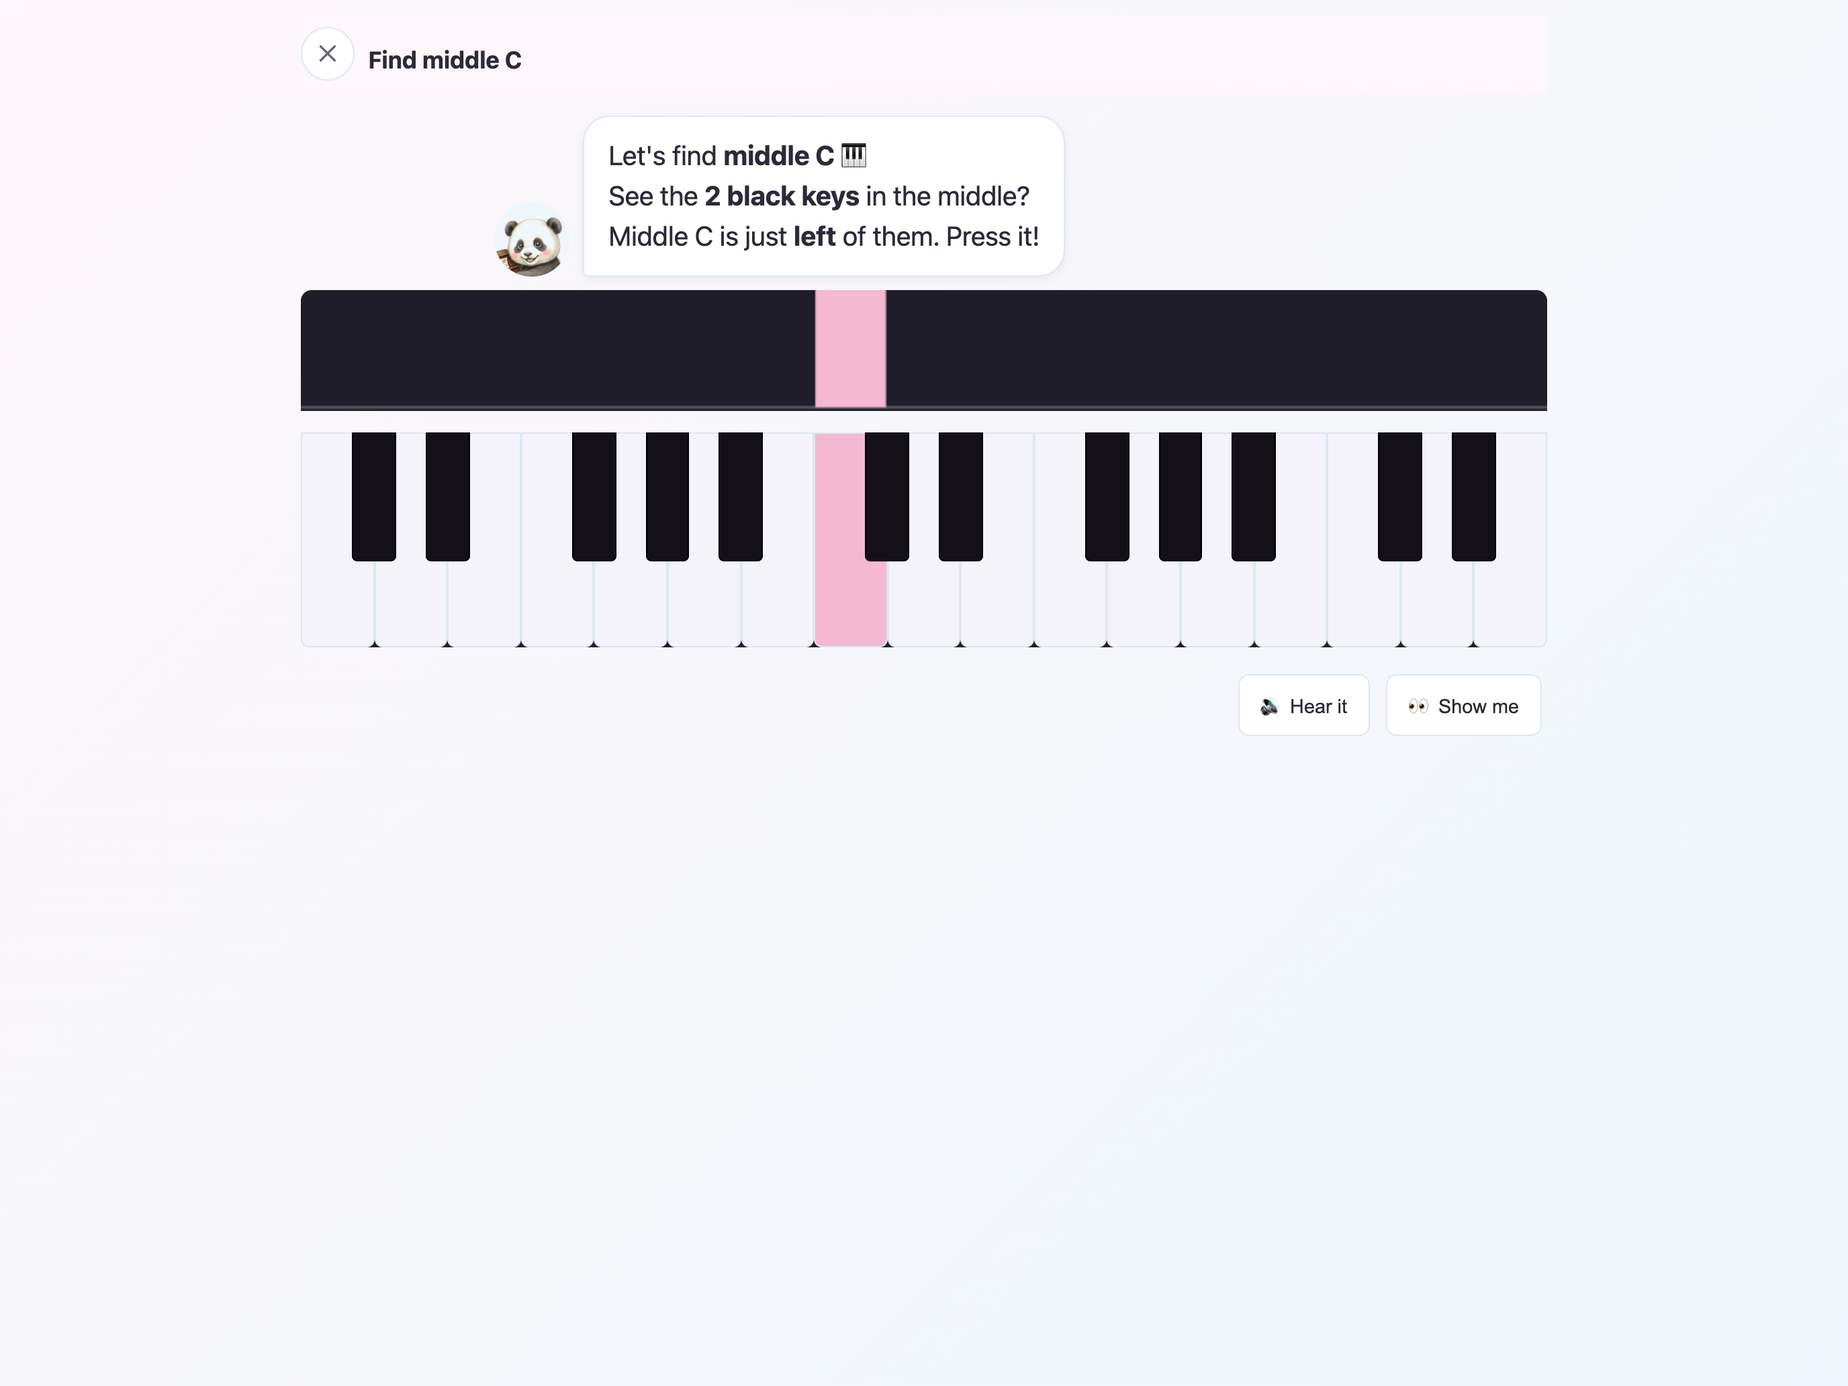
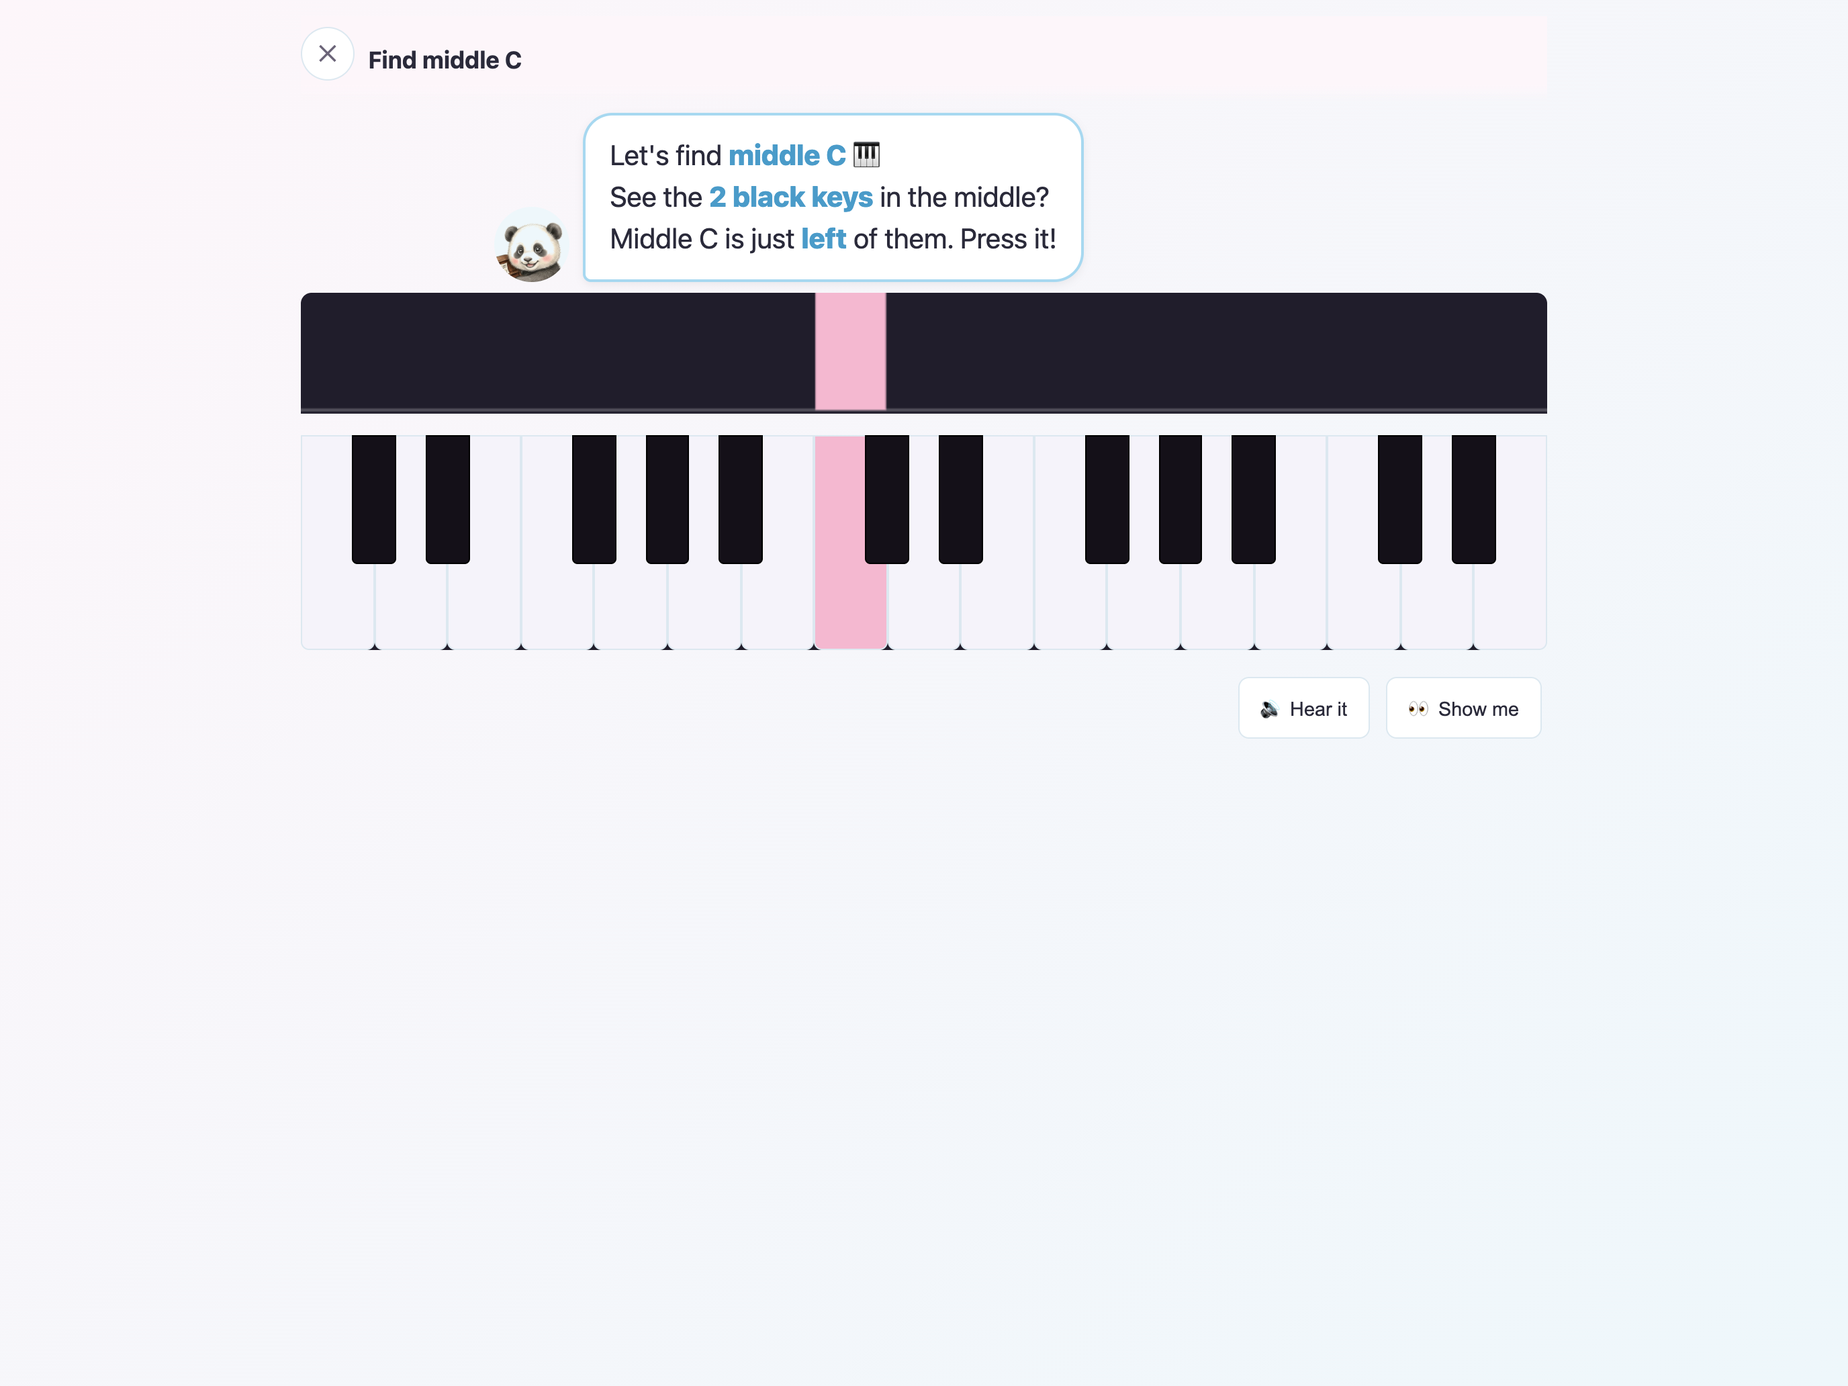
Days 2-3 as tiny lessons (notes, a song's key, major/minor, key of C, two hands, ear quiz), jargon-alert card, playful chat-style cards; screenshots; STATUS; iOS build 7

diff --git a/js/lessons-ui.js b/js/lessons-ui.js
@@ -220,10 +220,19 @@ function timelineHtml() {
 // One short message, one thing to press, a "Hear it" button. The card
 // moves on when the learner plays it (screen, MIDI keyboard or mic).
 const G = [67, 71, 74], D = [62, 66, 69], EM = [64, 67, 71], C = [60, 64, 67];
+const CMIN = [60, 63, 67], AM = [57, 60, 64];
+// The same loop in the key of C, kept close to middle C.
+const KC_C = [60, 64, 67], KC_G = [55, 59, 62], KC_AM = [57, 60, 64], KC_F = [53, 57, 60];
+// Two hands: a low left-hand note (the chord's letter) under the right-hand chord.
+const H_G = [55, ...G], H_D = [50, ...D], H_EM = [52, ...EM], H_C = [48, ...C];
+// The last card of each day also completes the older, wordier lessons it
+// replaces, so Today moves straight on (they stay in the Roadmap).
+const DAY_ENDS = { "m-another-song": [1, ["lesson-1"]], "d2-key-c": [2, ["lesson-2", "lesson-4"]], "d3-song": [3, ["lesson-twohand-preview", "lesson-eartraining"]] };
 const MICRO_CARDS = {
   "m-find-c": { say: "Let's find <b>middle C</b> 🎹<br>See the <b>2 black keys</b> in the middle?<br>Middle C is just <b>left</b> of them. Press it!", want: { notes: [60] }, help: [60], hideMiddleC: true, done: "Yes! That's middle C 🎉" },
   "m-find-g": { say: "From middle C, count the white keys:<br><b>C · D · E · F · G</b><br>Press <b>G</b>!", want: { notes: [67] }, help: [67], done: "That's G! 🎉" },
   "m-chord-g": { say: "Press <b>3 keys</b>: <b>G · B · D</b><br>That's the <b>G chord</b>!", want: { notes: G }, show: G, done: "Your first chord! 🎹" },
+  "m-jargon": { say: "🚨 <b>Jargon alert!</b><br>A <b>key</b> = one thing you press.<br>A <b>chord</b> = 3 keys together.<br>You just played the <b>G chord</b>!", want: { tap: true }, demoSeq: [[[67], "key"], [G, "chord"]], done: "Key 🎹 vs chord 🎹🎹🎹 👍" },
   "m-another-g": { say: "Wait… is there <b>another G</b>? 🤔<br>Yes! The keys repeat. Press a <b>different G</b>.", want: { pc: 7, not: 67 }, help: [55], done: "There's a G in every group! 🎉" },
   "m-back-g": { say: "Back to <b>middle C</b>…<br>now play the <b>G chord</b> again.", want: { notes: G }, show: G, done: "Nice! 👏" },
   "m-chord-em": { say: "Chord 2: <b>E minor</b><br>Press <b>E · G · B</b>. It sounds a little sad 🥲", want: { notes: EM }, show: EM, done: "That's E minor! 🎉" },
@@ -234,6 +243,19 @@ const MICRO_CARDS = {
   "m-soft-strong": { say: "Play <b>G</b> <b>softly</b>… then <b>strong</b> 💪<br>It feels different!<br><small>(Best on a real piano.)</small>", want: { times: 2, notes: G }, show: G, soft: true, done: "Soft and strong. Nice! 🎉" },
   "m-sing": { say: "Play <b>C</b> and press the <b>top key</b> a bit <b>harder</b>.<br>Now it sings! 🎶", want: { notes: C }, show: C, sing: true, done: "Beautiful! 🎶" },
   "m-another-song": { say: "Same 4 chords, <b>new order</b>:<br><b>G → Em → C → D</b><br>That's the shape of songs like <i>Perfect</i>!", want: { seq: [G, EM, C, D] }, demoSeq: [[G, "G"], [EM, "Em"], [C, "C"], [D, "D"]], done: "Two songs' worth of chords! 🏆" },
+  "d2-note": { say: "Each key plays a <b>note</b> 🎵<br>Notes are letters: <b>A B C D E F G</b>… then they start again!<br>Press <b>E</b>.", want: { notes: [64] }, help: [64], done: "That's E! 🎉" },
+  "d2-song-key": { say: "Songs have a <b>key</b> too! 🏠<br>It's the song's <b>home</b> chord.<br>Play <b>G → D → G</b>. Back home!", want: { seq: [G, D, G] }, demoSeq: [[G, "home"], [D, "away"], [G, "home"]], done: "This song is in the key of G 🏠" },
+  "d2-major": { say: "This is <b>C major</b>: <b>C · E · G</b><br>It sounds <b>happy</b> 😀", want: { notes: C }, show: C, done: "Happy! 😀" },
+  "d2-minor": { say: "Now move the middle key <b>one step down</b> to the black key: <b>C · E♭ · G</b><br>It sounds <b>sad</b> 🥲 That's <b>C minor</b>!", want: { notes: CMIN }, show: CMIN, done: "Sad! 🥲 One key changed it." },
+  "d2-am": { say: "<b>A minor</b>: <b>A · C · E</b><br>All white keys, and it's sad 🥲", want: { notes: AM }, show: AM, done: "That's A minor! 🎉" },
+  "d2-pattern": { say: "A secret 🤫 In <b>every</b> key:<br>Chords <b>1 · 4 · 5</b> are happy 😀<br>Chords <b>2 · 3 · 6</b> are sad 🥲<br>That's why Em (chord 6) sounded sad!", want: { tap: true }, demoSeq: [[G, "1 😀"], [C, "4 😀"], [D, "5 😀"], [EM, "6 🥲"]], done: "1 4 5 happy · 2 3 6 sad 👍" },
+  "d2-key-c": { say: "Same 4 chords, new <b>key</b> (C):<br><b>C → G → Am → F</b><br>Songs like <i>Let It Be</i>!", want: { seq: [KC_C, KC_G, KC_AM, KC_F] }, demoSeq: [[KC_C, "C"], [KC_G, "G"], [KC_AM, "Am"], [KC_F, "F"]], done: "Same numbers, new key! 🏆" },
+  "d3-left": { say: "Your <b>left hand</b> plays the <b>low</b> notes 👈<br>Press the low <b>G</b> with your left hand.", want: { notes: [55] }, show: [55], done: "Left hand ready! 👈" },
+  "d3-together": { say: "Now <b>both hands</b>! 🙌<br>Left: low <b>G</b><br>Right: the <b>G chord</b>", want: { notes: H_G }, show: H_G, done: "Two hands! 🙌" },
+  "d3-walk": { say: "Left hand plays each chord's <b>letter</b>, down low.<br><b>G → D → E → C</b><br>Right hand plays the chords.", want: { seq: [H_G, H_D, H_EM, H_C] }, demoSeq: [[H_G, "G"], [H_D, "D"], [H_EM, "Em"], [H_C, "C"]], done: "Your bass is walking! 🚶" },
+  "d3-ear-1": { say: "Use your ears 👂<br>Tap <b>🔊 Hear it</b>.<br>Is it <b>happy</b> or <b>sad</b>?", want: { choice: "sad" }, demo: AM, done: "Yes, sad! That was A minor 🥲" },
+  "d3-ear-2": { say: "One more 👂<br>Happy or sad?", want: { choice: "happy" }, demo: D, done: "Yes, happy! That was D major 😀" },
+  "d3-song": { say: "Two hands, 4 chords! 🎹🎹<br><b>G → D → Em → C</b>", want: { seq: [H_G, H_D, H_EM, H_C] }, demoSeq: [[H_G, "G"], [H_D, "D"], [H_EM, "Em"], [H_C, "C"]], done: "You played a song with two hands! 🏆" },
 };
 
 // Today: the day's tasks as big full-width cards, one thing each.
@@ -692,16 +714,25 @@ function initLessonsTab(root) {
     const card = MICRO_CARDS[id];
     const lesson = LESSONS.find((l) => l.id === id);
     const { content, keyboardWrap, controls } = lessonShell(lesson.title);
-    content.innerHTML = `<div class="hk-micro"><img src="assets/mascot-face.png" alt="" class="hk-micro-avatar"><div class="hk-micro-bubble" id="hk-micro-say">${card.say}</div></div>`;
+    // Chat style: Hayden "types" for a moment, then the message pops in.
+    content.innerHTML = `<div class="hk-micro-thread" id="hk-micro-thread"><div class="hk-micro"><img src="assets/mascot-face.png" alt="" class="hk-micro-avatar"><div class="hk-micro-bubble" id="hk-micro-say"><span class="hk-chat-typing"><i></i><i></i><i></i></span></div></div></div>`;
+    const thread = content.querySelector("#hk-micro-thread");
+    setTimeout(() => { if (!finished) say.innerHTML = card.say; }, 550);
+    const reply = (html, cls = "") => {
+      thread.querySelector(".hk-micro-oops")?.remove();
+      thread.insertAdjacentHTML("beforeend", `<div class="hk-micro hk-micro-reply ${cls}"><img src="assets/mascot-face.png" alt="" class="hk-micro-avatar"><div class="hk-micro-bubble">${html}</div></div>`);
+      thread.lastElementChild.scrollIntoView?.({ behavior: "smooth", block: "nearest" });
+    };
     // C3 to E5: middle C sits right in the middle of the screen.
     const kb = lessonKeyboard(keyboardWrap, { startMidi: 48, endMidi: 76, markMiddleC: !card.hideMiddleC });
     if (card.show) kb.highlightChord(card.show);
     const say = content.querySelector("#hk-micro-say");
-    const demoNotes = card.show || card.help || (card.want.notes || []);
+    const demoNotes = card.demo || card.show || card.help || (card.want.notes || []);
     controls.innerHTML = `
       ${card.demoSeq ? '<button class="hk-btn" id="hk-micro-hear">🔊 Hear it</button>' : card.soft ? '<button class="hk-btn" id="hk-micro-soft">🔈 Soft</button><button class="hk-btn" id="hk-micro-strong">🔊 Strong</button>' : '<button class="hk-btn" id="hk-micro-hear">🔊 Hear it</button>'}
       ${card.help ? '<button class="hk-btn" id="hk-micro-help">👀 Show me</button>' : ""}
-      ${card.want.tap ? '<button class="hk-btn hk-btn-primary" id="hk-micro-ok">Got it!</button>' : ""}`;
+      ${card.want.tap ? '<button class="hk-btn hk-btn-primary" id="hk-micro-ok">Got it!</button>' : ""}
+      ${card.want.choice ? '<button class="hk-btn hk-micro-choice" data-choice="happy">😀 Happy</button><button class="hk-btn hk-micro-choice" data-choice="sad">🥲 Sad</button>' : ""}`;
     const sleep = (ms) => new Promise((r) => setTimeout(r, ms));
     async function playSeq(seq) {
       for (const [notes, label] of seq) {
@@ -735,6 +766,11 @@ function initLessonsTab(root) {
       const w = card.want;
       if (w.pc !== undefined) {
         if (((midi % 12) + 12) % 12 === w.pc && midi !== w.not) return success();
+        if (midi === w.not) reply("That's the same G 😄 Find a <b>different</b> one!", "hk-micro-oops");
+        return;
+      }
+      if (w.notes && w.notes.length === 1 && midi !== w.notes[0]) {
+        reply(`Oops! That's <b>${midiToName(midi).replace(/\d+$/, "")}</b> 🙈 Try again!`, "hk-micro-oops");
         return;
       }
       if (w.seq) {
@@ -759,18 +795,25 @@ function initLessonsTab(root) {
     onLessonExit(unsub);
     if (card.want.seq) kb.highlightChord(card.want.seq[0]);
     if (card.want.tap) controls.querySelector("#hk-micro-ok").addEventListener("click", success);
+    controls.querySelectorAll(".hk-micro-choice").forEach((b) => b.addEventListener("click", () => {
+      if (b.dataset.choice === card.want.choice) return success();
+      say.innerHTML = card.say + '<div class="hk-micro-progress">Listen again 👂</div>';
+      playChord(demoNotes, { duration: 1.2 });
+    }));
 
     function success() {
       if (finished) return;
       finished = true;
       unsub();
-      say.innerHTML = `<div class="hk-micro-done">${card.done}</div>`;
+      say.innerHTML = card.say;
+      reply(`<div class="hk-micro-done">${card.done}</div>`, "hk-micro-yay");
       const ids = MICRO_LESSONS.map((l) => l.id);
       const nextId = ids[ids.indexOf(id) + 1];
-      controls.innerHTML = `<button class="hk-btn hk-btn-primary hk-micro-next" id="hk-micro-next">${nextId ? "Next lesson →" : "Finish Day 1 🏆"}</button>`;
+      const dayEnd = DAY_ENDS[id];
+      controls.innerHTML = `<button class="hk-btn hk-btn-primary hk-micro-next" id="hk-micro-next">${dayEnd ? `Finish Day ${dayEnd[0]} 🏆` : "Next lesson →"}</button>`;
       markLessonComplete(id);
-      if (!nextId) markLessonComplete("lesson-1");
-      controls.querySelector("#hk-micro-next").addEventListener("click", () => (nextId ? startLesson(nextId) : showMap()));
+      if (dayEnd) dayEnd[1].forEach((l) => markLessonComplete(l));
+      controls.querySelector("#hk-micro-next").addEventListener("click", () => (dayEnd || !nextId ? showMap() : startLesson(nextId)));
     }
   }
 

diff --git a/js/lessons-data.js b/js/lessons-data.js
@@ -108,6 +108,7 @@ const MICRO_LESSONS = [
   { id: "m-find-c", title: "Find middle C", subtitle: "Your first key", description: "Find middle C on your piano." },
   { id: "m-find-g", title: "Find G", subtitle: "Count up from C", description: "Count up from middle C to G." },
   { id: "m-chord-g", title: "Your first chord: G", subtitle: "3 keys together", description: "Press G, B and D together." },
+  { id: "m-jargon", title: "Jargon alert: key or chord?", subtitle: "Two words, quickly", description: "A key is one thing you press. A chord is 3 keys together." },
   { id: "m-another-g", title: "Another G?", subtitle: "Keys repeat", description: "There's a G in every group of keys." },
   { id: "m-back-g", title: "Back to G", subtitle: "Middle C, then G", description: "Back to middle C, then play the G chord." },
   { id: "m-chord-em", title: "Chord 2: E minor", subtitle: "A sad sound", description: "Press E, G and B." },
@@ -118,6 +119,21 @@ const MICRO_LESSONS = [
   { id: "m-soft-strong", title: "Soft and strong", subtitle: "Press gently, then harder", description: "The same chord feels different soft and strong." },
   { id: "m-sing", title: "Make one key sing", subtitle: "Press the top key a bit harder", description: "Let the top key of a chord stand out." },
   { id: "m-another-song", title: "Another song", subtitle: "Same 4 chords, new order", description: "G, Em, C, D: the shape of songs like Perfect." },
+  // Day 2: words musicians use, happy vs sad, a new key
+  { id: "d2-note", title: "Keys make notes", subtitle: "Day 2", description: "Each key plays a note with a letter name." },
+  { id: "d2-song-key", title: "A song's home", subtitle: "The other kind of key", description: "A song's key is its home chord." },
+  { id: "d2-major", title: "Happy chord", subtitle: "Major", description: "Major chords sound happy." },
+  { id: "d2-minor", title: "Sad chord", subtitle: "Minor", description: "Move one key down: now it's sad." },
+  { id: "d2-am", title: "A minor", subtitle: "All white keys", description: "A · C · E." },
+  { id: "d2-pattern", title: "Happy and sad numbers", subtitle: "1 4 5 happy · 2 3 6 sad", description: "In every key, chords 1, 4 and 5 are major; 2, 3 and 6 are minor." },
+  { id: "d2-key-c", title: "Same 4 chords, key of C", subtitle: "C · G · Am · F", description: "The 1-5-6-4 loop, moved to the key of C." },
+  // Day 3: two hands, and your ears
+  { id: "d3-left", title: "Your left hand", subtitle: "Day 3", description: "The left hand plays the low notes." },
+  { id: "d3-together", title: "Both hands", subtitle: "Low G + G chord", description: "Left hand low G, right hand G chord." },
+  { id: "d3-walk", title: "Bass walks with the chords", subtitle: "G · D · E · C", description: "Left hand plays each chord's first note." },
+  { id: "d3-ear-1", title: "Use your ears", subtitle: "Happy or sad?", description: "Listen: major or minor?" },
+  { id: "d3-ear-2", title: "Ears again", subtitle: "Happy or sad?", description: "One more: major or minor?" },
+  { id: "d3-song", title: "Two-hand song", subtitle: "Both hands, 4 chords", description: "Play the 4-chord loop with both hands." },
 ];
 
 const PRE_LESSONS = [

diff --git a/css/style.css b/css/style.css
@@ -988,3 +988,20 @@ body.hk-lesson-open .hk-rotate-tip { display: none !important; }
 .hk-micro-progress { margin-top: 6px; font-size: 1.1rem; color: var(--hk-accent); letter-spacing: 4px; }
 .hk-micro-done { font-size: 1.5rem; font-weight: 700; color: var(--hk-accent-2); }
 .hk-micro-next { font-size: 1.15rem; padding: 14px 26px; min-height: 52px; }
+
+/* ===== Playful chat cards ===== */
+.hk-micro-thread { max-width: 640px; margin: 8px auto; display: flex; flex-direction: column; gap: 10px; }
+.hk-micro-thread .hk-micro { margin: 0; animation: hk-pop 0.35s cubic-bezier(.2,1.4,.4,1); }
+.hk-micro-bubble { font-size: 1.3rem; border-radius: 22px; border-bottom-left-radius: 6px; background: #fff; border: 2px solid var(--hk-accent-soft); }
+.hk-micro-bubble b { color: var(--hk-accent); font-weight: 800; }
+.hk-micro-yay .hk-micro-bubble { background: linear-gradient(135deg, #fff3f8, #eef7ff); border-color: var(--hk-accent-2-soft); }
+.hk-micro-yay .hk-micro-avatar { animation: hk-hop 0.6s ease-out 2; }
+.hk-micro-oops .hk-micro-bubble { font-size: 1.1rem; background: #fff8e8; border-color: #f3d58a; animation: hk-wiggle 0.4s ease-in-out; }
+.hk-micro-done { font-size: 1.45rem; font-weight: 800; background: linear-gradient(90deg, var(--hk-accent-2), var(--hk-purple)); -webkit-background-clip: text; background-clip: text; color: transparent; }
+.hk-micro-next { font-size: 1.2rem; font-weight: 800; padding: 14px 30px; min-height: 56px; border-radius: 999px; border: none; color: #fff; background: linear-gradient(135deg, var(--hk-accent), var(--hk-purple)); box-shadow: 0 6px 16px rgba(138, 99, 210, 0.35); animation: hk-pop 0.4s cubic-bezier(.2,1.4,.4,1), hk-nudge 1.6s ease-in-out 0.6s infinite; }
+.hk-micro-choice { font-size: 1.15rem; padding: 12px 22px; border-radius: 999px; min-height: 52px; }
+@keyframes hk-pop { from { opacity: 0; transform: scale(0.85) translateY(8px); } to { opacity: 1; transform: none; } }
+@keyframes hk-hop { 0%, 100% { transform: translateY(0); } 40% { transform: translateY(-10px); } }
+@keyframes hk-wiggle { 0%, 100% { transform: rotate(0); } 25% { transform: rotate(-2deg); } 75% { transform: rotate(2deg); } }
+@keyframes hk-nudge { 0%, 100% { transform: scale(1); } 50% { transform: scale(1.05); } }
+@media (prefers-reduced-motion: reduce) { .hk-micro-thread .hk-micro, .hk-micro-next, .hk-micro-yay .hk-micro-avatar, .hk-micro-oops .hk-micro-bubble { animation: none; } }

diff --git a/js/app.js b/js/app.js
@@ -174,7 +174,7 @@ window.addEventListener("hk-celebrate", (e) => {
   confetti();
   // Day 1's tiny steps celebrate with notes only; a fun fact at the end.
   const id = e.detail?.lessonId || "";
-  if (!id.startsWith("m-") || id === "m-another-song") maybeShowFunFact();
+  if (!/^(m|d\d)-/.test(id) || ["m-another-song", "d2-key-c", "d3-song"].includes(id)) maybeShowFunFact();
 });
 
 document.addEventListener("DOMContentLoaded", init);

diff --git a/STATUS.md b/STATUS.md
@@ -2190,3 +2190,29 @@ Day 1 is now **13 tiny lessons**. Each lesson card has one short message, one th
   - Tabs, buttons and keys respond to touch.
 - **Not testable in the simulator:** rotation. The build allows all orientations.
 - **TestFlight builds:** Hayden Keys builds 5 and 6, Jaxx Guitar build 4.
+
+## 2026-10-07 (later): Days 2 and 3 as tiny lessons; playful chat style
+- **Jargon alert card (Day 1, after the first chord):** "A key = one thing you press. A chord = 3 keys together. You just played the G chord!"
+- **Day 2, words, happy and sad:**
+  - Keys make notes (A–G repeat).
+  - A song's key is its home chord (G → D → G).
+  - Happy C major, and sad C minor (move one key down).
+  - A minor.
+  - "1 4 5 happy, 2 3 6 sad".
+  - The same 4 chords in the key of C (C G Am F, like *Let It Be*).
+  - Finishing Day 2 also completes the old Lessons 2 and 4.
+- **Day 3, two hands and ears:**
+  - Left hand low G.
+  - Both hands.
+  - The bass walking G D E C under the chords.
+  - Two happy-or-sad listening quizzes.
+  - A two-hand song.
+  - Finishing Day 3 also completes the old two-hands preview and ear-training lessons.
+- **Playful chat style:**
+  - Hayden types for a moment ("…"), then the message pops in.
+  - A wrong key gets a friendly "Oops! That's D 🙈 Try again!".
+  - Success arrives as a colourful reply bubble while the panda hops.
+  - Bold coloured keywords, and a big bouncy gradient Next button.
+  - Each day ends with "Finish Day N 🏆".
+- **Tested:** all 27 cards (Days 1–3) in a phone-sized browser, including wrong keys and quiz answers. No errors.
+- **Next:** later lessons (from "Major or minor?" onward in the Roadmap) are still chat-style rather than tiny cards.
